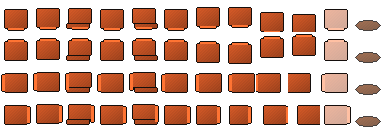
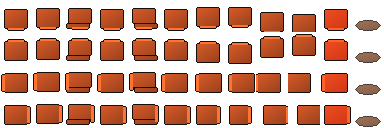
art: hurt frame = brighter+redder never white (gate law hurt_flash_not_white; grey/pale kits read white at +55% white - tower3 sentinel); all atlases regenerated, md5 pins updated

diff --git a/tools/gen_placeholder_art.py b/tools/gen_placeholder_art.py
@@ -324,7 +324,11 @@ def render_frame(kit, facing, anim, i):
         for p in acc:
             px[p] = acc_col
     if anim == "hurt":
-        px = {p: tuple(clamp(c + (255 - c) * 0.55) for c in col) for p, col in px.items()}
+        # hurt = brighter AND redder, never white (gate law hurt_flash_not_white:
+        # white reads as spawn/holy; a grey or pale kit at +55% white DID read
+        # white — tower3 sentinel 2026-09-05). Red channel lifts hard, the
+        # others only a little: every kit's hurt frame lands in the red family.
+        px = {p: (clamp(col[0] + (255 - col[0]) * 0.55), clamp(col[1] * 0.85), clamp(col[2] * 0.80)) for p, col in px.items()}
     for p in outline_for(set(px)):
         px.setdefault(p, OUTLINE)
     img = Image.new("RGBA", (FW, FH), (0, 0, 0, 0))
